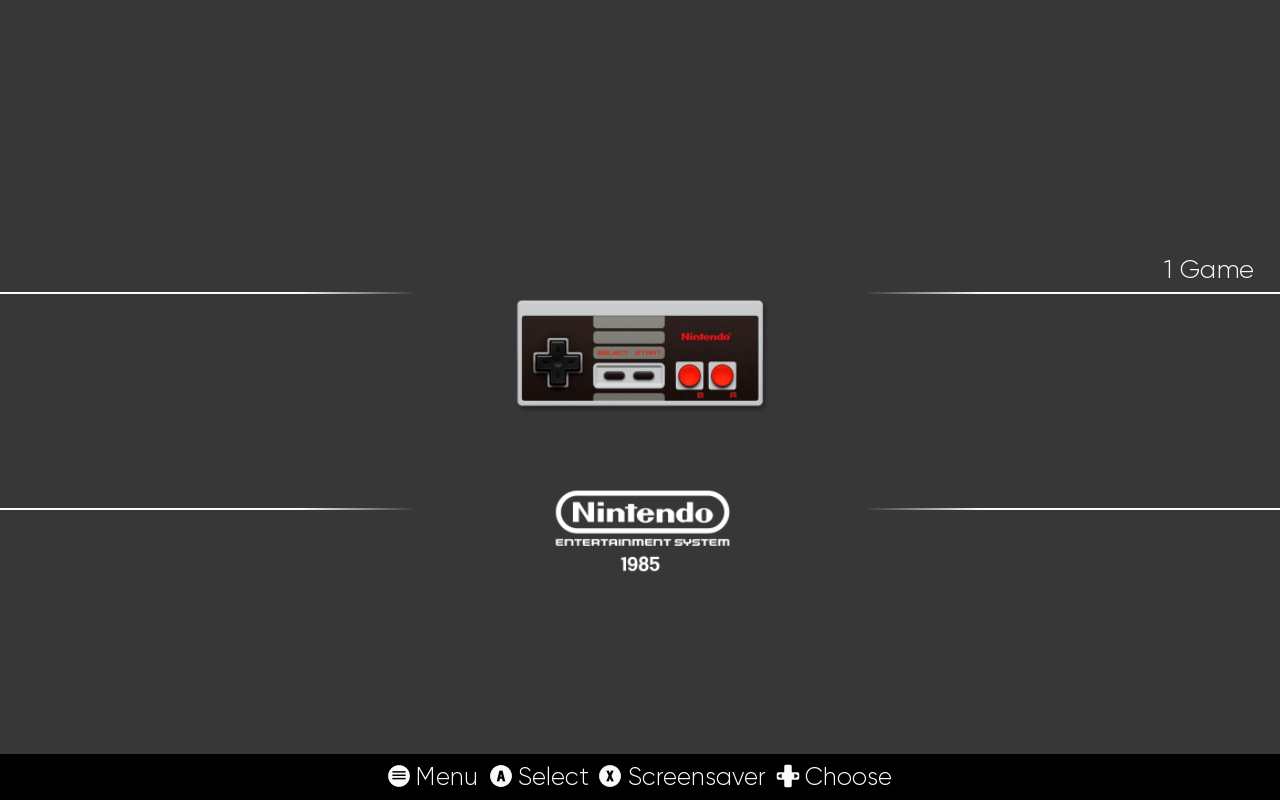
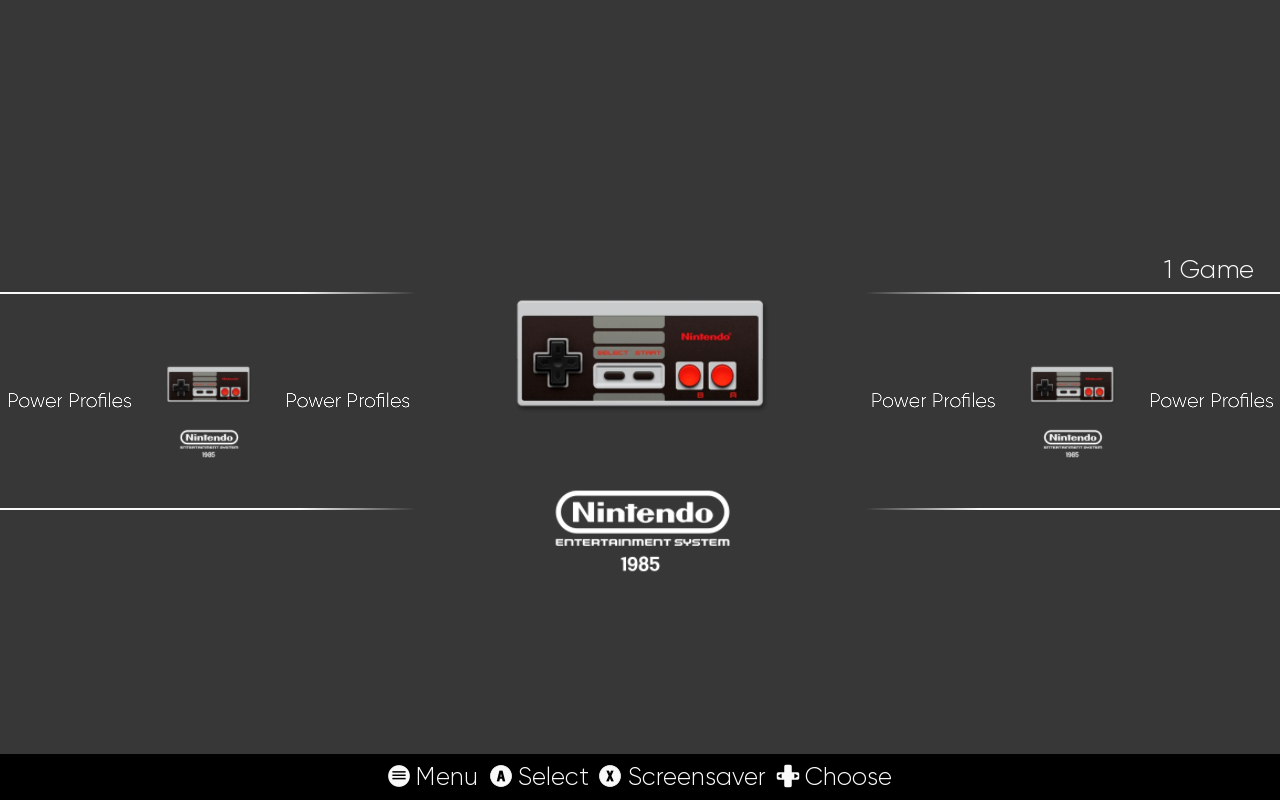
TDP: asusd is D-Bus activated, so do not enable it; assert the ES-DE menu by game count
The Arch asusd.service has no [Install] section (Type=dbus): enabling it was a
no-op. Order emunix-tdp after dbus instead, and check the D-Bus policy file in the
image. The session test now asserts ES-DE actually scanned the three Power Profiles
entries (total game count 4) instead of looking for a gamelist file ES-DE does not
write.

diff --git a/README.md b/README.md
@@ -78,9 +78,10 @@ ceiling, which `asusctl` does not expose):
 | `balanced` | Balanced | Quiet | 15 W | 10 W |
 | `performance` | Performance | Balanced | 25 W | 15 W |
 
-Ceilings stay under the ~30 W sustained limit the Ally's embedded controller enforces, so a
-running profile is not silently rolled back mid-game. Only package power limits are set;
-no thermal limit (Tctl, skin temperature) is touched.
+Ceilings are kept below the ~30 W sustained package limit ROG Ally firmware is known to
+enforce on the Z1 Extreme, so a running profile should not be rolled back mid-game. The
+5-minute acceptance measurement is where any remaining rollback would show up. Only
+package power limits are set; no thermal limit (Tctl, skin temperature) is touched.
 
 Switch from the **Power Profiles** entry in ES-DE (three script entries seeded into
 `/storage/roms/power`), or run `sudo emunix-tdp quiet|balanced|performance`. The choice is
